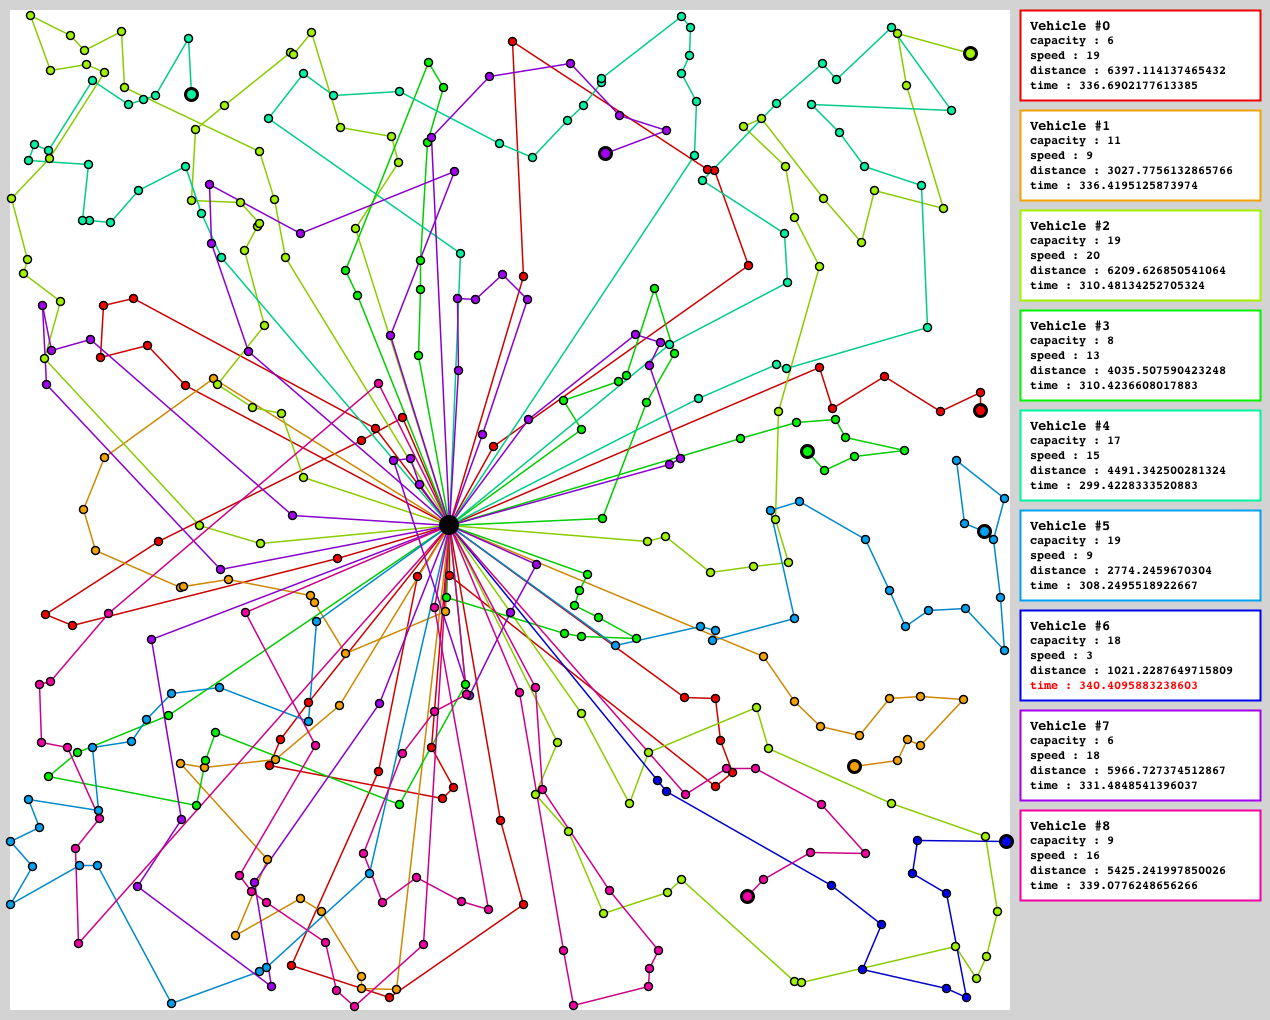
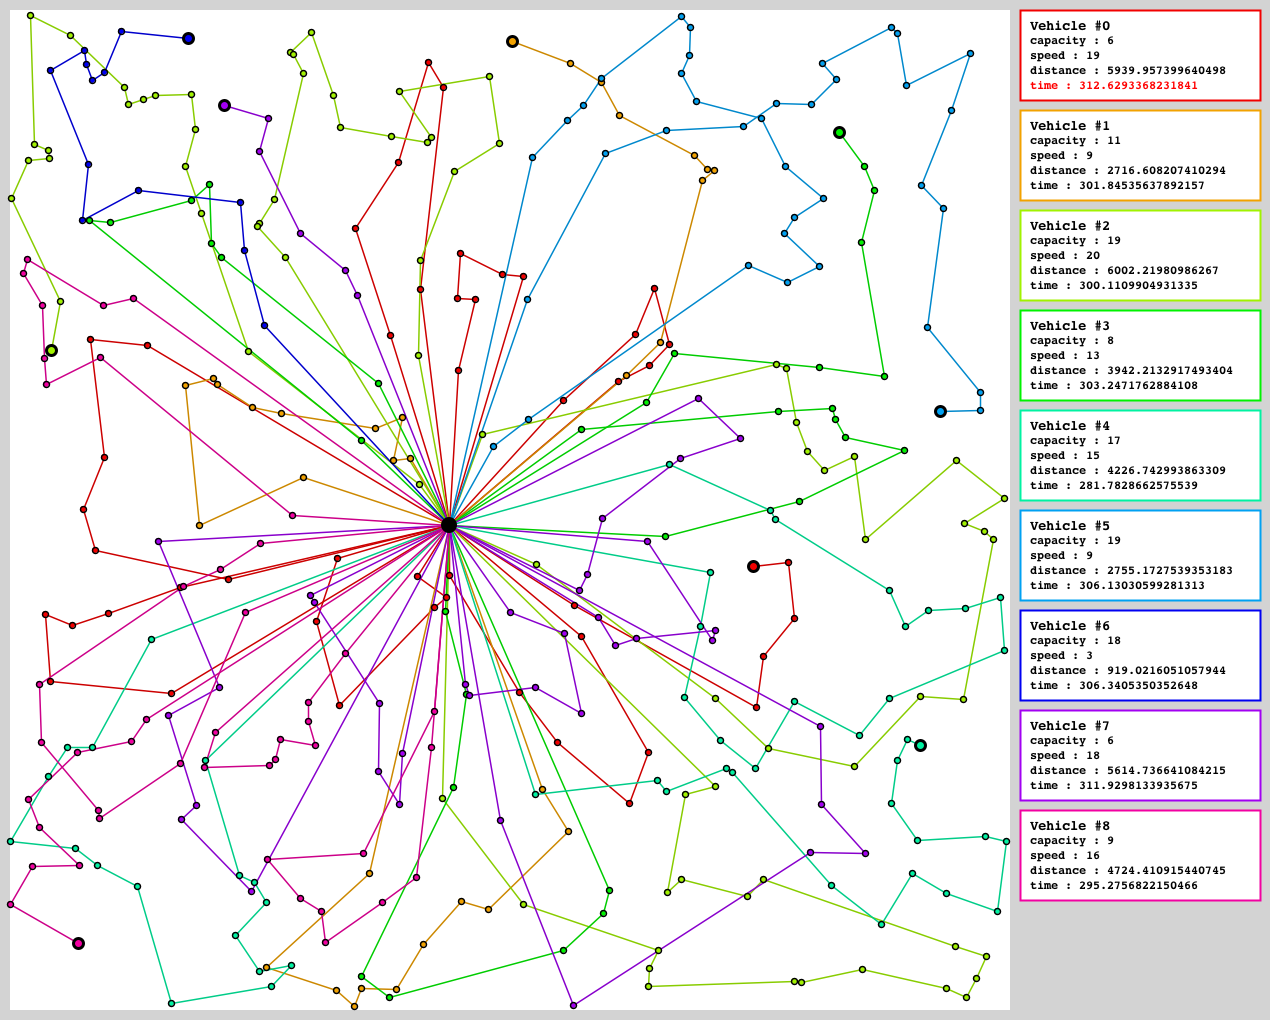
Update vrp/Visualizer.java

diff --git a/VehicleRouting/tester/Visualizer.java b/VehicleRouting/tester/Visualizer.java
@@ -114,7 +114,7 @@ public class Visualizer extends JFrame
         }
 
         /* Draw the destinations */
-        final int R1 = 8;
+        final int R1 = 6;
         g2.setStroke(new BasicStroke(1.5f));
         for (int i = 0; i < output.K; i++) {
             Color c = Color.getHSBColor((1.0f / (float)input.M) * (float)output.T[i], 1.0f, 0.95f);
@@ -128,7 +128,7 @@ public class Visualizer extends JFrame
         }
 
         /* Draw the last destination visited by each track. */
-        final int R2 = 12;
+        final int R2 = 10;
         g2.setStroke(new BasicStroke(3.0f));
         for (int i = 0; i < input.M; i++) {
             Color c = Color.getHSBColor((1.0f / (float)input.M) * (float)i, 1.0f, 0.95f);
@@ -139,7 +139,7 @@ public class Visualizer extends JFrame
         }
 
         /* Draw the depot */
-        final int R3 = 20;
+        final int R3 = 16;
         g2.setColor(new Color(0x000000));
         g2.fillOval(input.depotX - R3 / 2, input.depotY - R3 / 2, R3, R3);
 
